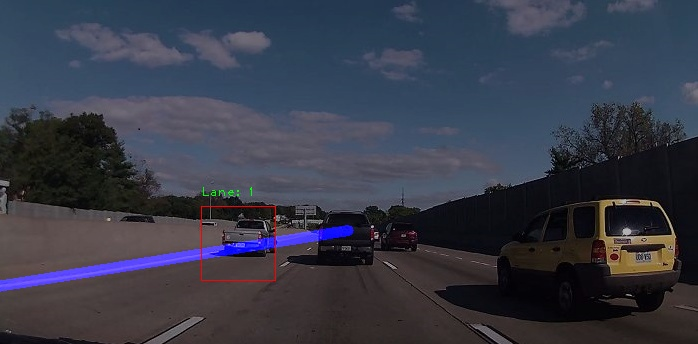
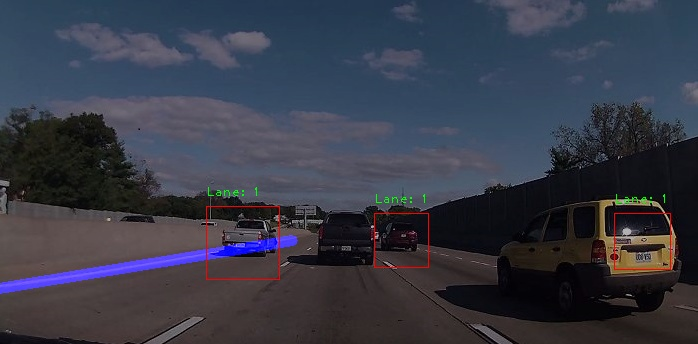
Fix car classifier

diff --git a/lanes.py b/lanes.py
@@ -41,7 +41,7 @@ lane_line_img = cv2.addWeighted(lane_img, constants.BG_IMG_OPACITY, avg_line_img
 
 car_classifier = cv2.CascadeClassifier("cars.xml")
 
-car_boxes = car_classifier.detectMultiScale(lane_img)
+car_boxes = car_classifier.detectMultiScale(blur_img)
 
 cars_and_lanes_img = lane_line_img
 # print(avg_lines_params)
